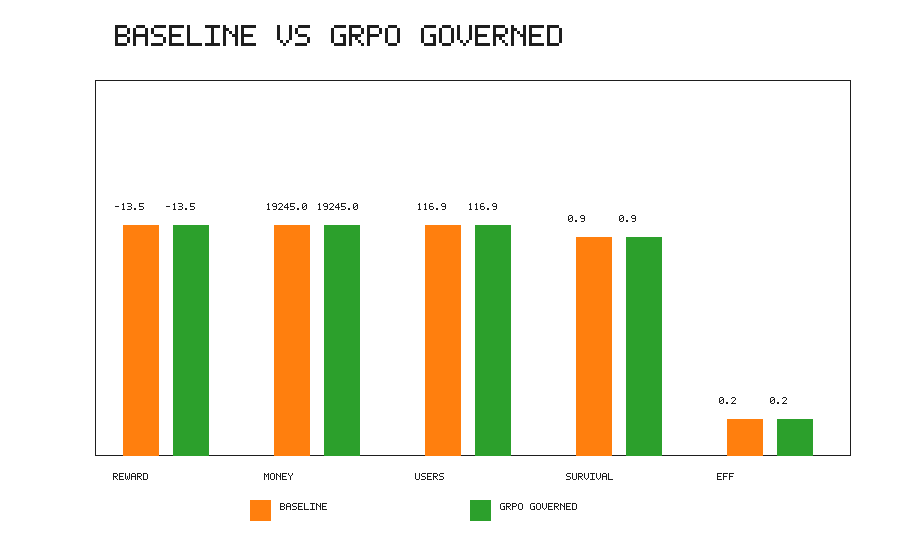
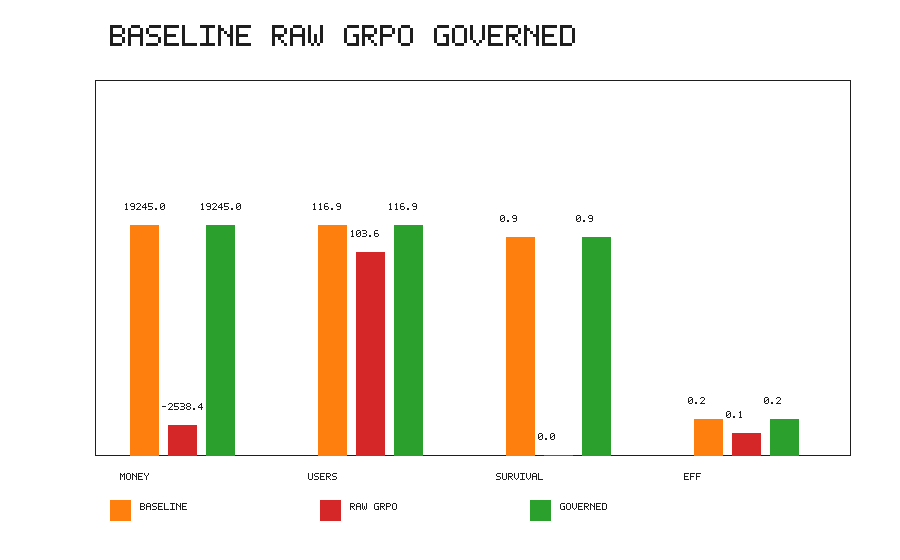
Frame raw GRPO as deployment ablation

diff --git a/scripts/make_submission_artifacts.py b/scripts/make_submission_artifacts.py
@@ -168,35 +168,40 @@ def plot_line(path, title, x_label, y_label, points, y_min=None, y_max=None):
 def plot_bars(path):
     img = make_canvas(900, 560)
     black = (30, 30, 30)
+    red = (214, 39, 40)
     green = (44, 160, 44)
     orange = (255, 127, 14)
     left, top, right, bottom = 95, 80, 850, 455
     metrics = [
-        ("REWARD", -13.52, -13.52),
-        ("MONEY", 19245.0, 19245.0),
-        ("USERS", 116.9, 116.9),
-        ("SURVIVAL", 0.95, 0.95),
-        ("EFF", 0.16, 0.16),
+        ("MONEY", 19245.0, -2538.4, 19245.0),
+        ("USERS", 116.9, 103.6, 116.9),
+        ("SURVIVAL", 0.95, 0.0, 0.95),
+        ("EFF", 0.16, 0.097, 0.16),
     ]
 
-    draw_text(img, 115, 25, "BASELINE VS GRPO GOVERNED", black, scale=3)
+    draw_text(img, 110, 25, "BASELINE RAW GRPO GOVERNED", black, scale=3)
     draw_rect(img, left, top, right, bottom, black)
     group_w = (right - left) // len(metrics)
-    for i, (name, base, governed) in enumerate(metrics):
-        x0 = left + i * group_w + 28
-        max_val = max(abs(base), abs(governed), 1)
+    for i, (name, base, raw_grpo, governed) in enumerate(metrics):
+        x0 = left + i * group_w + 35
+        max_val = max(abs(base), abs(raw_grpo), abs(governed), 1)
         base_h = int(abs(base) / max_val * 230)
+        raw_h = int(abs(raw_grpo) / max_val * 230)
         governed_h = int(abs(governed) / max_val * 230)
-        draw_rect(img, x0, bottom - base_h, x0 + 35, bottom, orange, fill=True)
-        draw_rect(img, x0 + 50, bottom - governed_h, x0 + 85, bottom, green, fill=True)
+        draw_rect(img, x0, bottom - base_h, x0 + 28, bottom, orange, fill=True)
+        draw_rect(img, x0 + 38, bottom - raw_h, x0 + 66, bottom, red, fill=True)
+        draw_rect(img, x0 + 76, bottom - governed_h, x0 + 104, bottom, green, fill=True)
         draw_text(img, x0 - 10, bottom + 18, name, black, scale=1)
-        draw_text(img, x0 - 8, bottom - base_h - 22, f"{base:.1f}", black, scale=1)
-        draw_text(img, x0 + 43, bottom - governed_h - 22, f"{governed:.1f}", black, scale=1)
+        draw_text(img, x0 - 6, bottom - base_h - 22, f"{base:.1f}", black, scale=1)
+        draw_text(img, x0 + 32, bottom - raw_h - 22, f"{raw_grpo:.1f}", black, scale=1)
+        draw_text(img, x0 + 70, bottom - governed_h - 22, f"{governed:.1f}", black, scale=1)
 
-    draw_rect(img, 250, 500, 270, 520, orange, fill=True)
-    draw_text(img, 280, 503, "BASELINE", black, scale=1)
-    draw_rect(img, 470, 500, 490, 520, green, fill=True)
-    draw_text(img, 500, 503, "GRPO GOVERNED", black, scale=1)
+    draw_rect(img, 110, 500, 130, 520, orange, fill=True)
+    draw_text(img, 140, 503, "BASELINE", black, scale=1)
+    draw_rect(img, 320, 500, 340, 520, red, fill=True)
+    draw_text(img, 350, 503, "RAW GRPO", black, scale=1)
+    draw_rect(img, 530, 500, 550, 520, green, fill=True)
+    draw_text(img, 560, 503, "GOVERNED", black, scale=1)
     save_png(path, img)
 
 
@@ -204,10 +209,11 @@ def plot_reward_curve(path):
     img = make_canvas(900, 560)
     black = (30, 30, 30)
     orange = (255, 127, 14)
+    red = (214, 39, 40)
     green = (44, 160, 44)
     grid = (215, 220, 225)
     left, top, right, bottom = 120, 80, 820, 460
-    values = [("BASELINE", -13.52, orange), ("GRPO GOV", -13.52, green)]
+    values = [("BASELINE", -13.52, orange), ("RAW GRPO", -5.243, red), ("GOVERNED", -13.52, green)]
     y_min, y_max = -16.0, 0.0
 
     draw_text(img, 165, 25, "AVERAGE EPISODE REWARD", black, scale=3)
@@ -218,7 +224,7 @@ def plot_reward_curve(path):
 
     zero_y = int(bottom - (0 - y_min) / (y_max - y_min) * (bottom - top))
     for i, (name, value, color) in enumerate(values):
-        x0 = left + 180 + i * 230
+        x0 = left + 110 + i * 190
         y = int(bottom - (value - y_min) / (y_max - y_min) * (bottom - top))
         draw_rect(img, x0, zero_y, x0 + 90, y, color, fill=True)
         draw_text(img, x0 - 12, bottom + 20, name, black, scale=1)
@@ -226,31 +232,34 @@ def plot_reward_curve(path):
 
     draw_text(img, 35, top - 5, "0", black, scale=1)
     draw_text(img, 25, bottom - 5, "-16", black, scale=1)
-    draw_text(img, 260, 510, "FINAL COLAB POLICY EVALUATION", black, scale=2)
+    draw_text(img, 240, 510, "RAW REWARD HIDES SURVIVAL RISK", black, scale=2)
     save_png(path, img)
 
 
 def plot_policy_summary(path):
     img = make_canvas(900, 560)
     black = (30, 30, 30)
+    red = (214, 39, 40)
     green = (44, 160, 44)
     orange = (255, 127, 14)
 
     draw_text(img, 125, 25, "CEO POLICY SAFETY SUMMARY", black, scale=3)
-    draw_text(img, 90, 110, "BASELINE CEO", orange, scale=2)
-    draw_text(img, 90, 150, "SURVIVAL 0.95", black, scale=2)
-    draw_text(img, 90, 185, "19 OF 20 REACH MAX DAYS", black, scale=2)
-    draw_text(img, 90, 220, "DETERMINISTIC POLICY", black, scale=2)
+    draw_text(img, 70, 110, "BASELINE CEO", orange, scale=2)
+    draw_text(img, 70, 150, "SURVIVAL 0.95", black, scale=2)
+    draw_text(img, 70, 185, "19 OF 20 MAX DAYS", black, scale=2)
 
-    draw_text(img, 510, 110, "GOVERNED GRPO CEO", green, scale=2)
-    draw_text(img, 510, 150, "SURVIVAL 0.95", black, scale=2)
-    draw_text(img, 510, 185, "19 OF 20 REACH MAX DAYS", black, scale=2)
-    draw_text(img, 510, 220, "TRAINED ADAPTER PLUS GOVERNOR", black, scale=2)
+    draw_text(img, 350, 110, "RAW GRPO", red, scale=2)
+    draw_text(img, 350, 150, "SURVIVAL 0.00", black, scale=2)
+    draw_text(img, 350, 185, "BANKRUPTCY LOOP", black, scale=2)
 
-    draw_text(img, 205, 325, "GOVERNED ARCHITECTURE", black, scale=2)
-    draw_text(img, 205, 365, "GRPO POLICY", black, scale=2)
-    draw_text(img, 205, 400, "PLUS ACTION MASK", black, scale=2)
-    draw_text(img, 205, 435, "PLUS SURVIVAL FALLBACK", black, scale=2)
+    draw_text(img, 620, 110, "GOVERNED", green, scale=2)
+    draw_text(img, 620, 150, "SURVIVAL 0.95", black, scale=2)
+    draw_text(img, 620, 185, "19 OF 20 MAX DAYS", black, scale=2)
+
+    draw_text(img, 105, 300, "LESSON", black, scale=2)
+    draw_text(img, 105, 340, "GRPO LEARNED VALID ACTIONS", black, scale=2)
+    draw_text(img, 105, 375, "RAW POLICY WAS NOT SAFE", black, scale=2)
+    draw_text(img, 105, 410, "GOVERNOR RECOVERED SURVIVAL", black, scale=2)
     save_png(path, img)
 
 

diff --git a/README.md b/README.md
@@ -64,12 +64,15 @@ Episodes terminate when the startup reaches the horizon, runs out of money, or h
 
 ## CEO Architecture
 
-MASS evaluates two CEO variants:
+MASS reports three CEO runs so the final architecture is easy to understand:
 
 1. **Baseline CEO**: a deterministic policy that balances runway, user growth, product quality, burn, and recent actions.
-2. **GRPO + Governed CEO**: a Qwen2.5-0.5B LoRA adapter trained with GRPO and wrapped in an environment-aware survival governor.
+2. **Raw GRPO CEO ablation**: the trained Qwen2.5-0.5B LoRA adapter evaluated without the survival governor.
+3. **GRPO + Governed CEO**: the same trained adapter wrapped in an environment-aware survival governor.
 
 The governed CEO is the final trained architecture. It uses the GRPO adapter only in safe operating states where the company has enough money, runway, users, product quality, and no active recovery signal. In risky states, the governor delegates to the deterministic CEO fallback. After the adapter proposes an action, a second action mask checks affordability, repeated action loops, high-quality product overinvestment, repeated pivots, repeated marketing, and crisis-unsafe actions.
+
+The raw GRPO run is included as an ablation, not as the final system. It shows why long-horizon LLM policies need environment-aware constraints: the adapter learned to emit valid proposal-aligned actions, but without a governor it still made unsafe repeated decisions.
 
 ## What The Agent Observes
 
@@ -165,33 +168,33 @@ python3 compare_policies.py --output-dir outputs/comparison
 
 ## What Improved After Training
 
-GRPO improved the CEO's verifier-facing behavior during training: valid action formatting and proposal alignment rose above 90%. The final evaluation compares the baseline CEO against the GRPO-trained CEO running behind an environment-aware survival governor.
+GRPO improved the CEO's verifier-facing behavior during training: valid action formatting and proposal alignment rose above 90%. The evaluation includes the raw GRPO CEO as an ablation, then compares the final governed CEO against the baseline.
 
 Current 20-episode evaluation summary:
 
-| Metric | Baseline CEO | GRPO + Governed CEO |
-| --- | ---: | ---: |
-| Average total reward | -13.520 | -13.520 |
-| Average final money | 19,244.960 | 19,244.960 |
-| Average final users | 116.900 | 116.900 |
-| Survival rate | 0.950 | 0.950 |
-| Decision efficiency | 0.160 | 0.160 |
-| Main failure mode | no_users in 1/20 | no_users in 1/20 |
+| Metric | Baseline CEO | Raw GRPO CEO ablation | GRPO + Governed CEO |
+| --- | ---: | ---: | ---: |
+| Average total reward | -13.520 | -5.243 | -13.520 |
+| Average final money | 19,244.960 | -2,538.432 | 19,244.960 |
+| Average final users | 116.900 | 103.550 | 116.900 |
+| Survival rate | 0.950 | 0.000 | 0.950 |
+| Decision efficiency | 0.160 | 0.097 | 0.160 |
+| Main failure mode | no_users in 1/20 | bankruptcy-heavy | no_users in 1/20 |
 
-The key result is architectural: the trained model is integrated as a constrained decision policy rather than an unconstrained controller. The governed CEO preserves the baseline survival rate while keeping a trained policy available for safe operating states.
+The key result is architectural: raw training improved local action behavior, but the unconstrained policy was not safe enough for long-horizon deployment. The governed CEO preserves the baseline survival rate while keeping a trained policy available for safe operating states. In other words, MASS does not just train a policy; it demonstrates the safety layer needed to deploy that policy in a delayed-consequence environment.
 
 Required plots are committed under `docs/assets/`:
 
 - training loss curve
 - training reward curve
-- baseline vs GRPO+governed comparison
+- baseline vs raw/governed comparison
 - policy comparison summary
 
 ![GRPO training reward](docs/assets/reward_curve.png)
 
 ![GRPO training loss](docs/assets/loss_curve.png)
 
-![Baseline vs GRPO governed metrics](docs/assets/reward_comparison.png)
+![Baseline vs raw/governed metrics](docs/assets/reward_comparison.png)
 
 ![CEO policy safety summary](docs/assets/policy_summary.png)
 
@@ -310,7 +313,7 @@ Generated training/evaluation outputs are written to `outputs/` and are intentio
 ## Known Limitations
 
 - The simulator is compact and designed for hackathon-scale training, not a full business benchmark.
-- The governed GRPO CEO currently matches the baseline survival result rather than clearly beating it. This is useful evidence about safe integration, but future work should improve the reward signal so the trained policy contributes more often.
+- The governed GRPO CEO is optimized for safe deployment rather than unconstrained reward maximization. Future work should improve the reward signal so the trained policy contributes more often while preserving survival.
 
 ## Next Improvements
 

diff --git a/docs/miniblog_draft.md b/docs/miniblog_draft.md
@@ -8,7 +8,7 @@ MASS is a multi-agent startup simulator built as an OpenEnv-compatible environme
 
 The goal is to train and evaluate an LLM CEO policy on long-horizon strategic tradeoffs: when to invest in product, when to market, when to hire, when to conserve cash, and when to pivot.
 
-For training, I use Hugging Face TRL GRPO with a small Qwen2.5-0.5B LoRA CEO policy. The final system compares the baseline CEO against a governed GRPO CEO that combines the trained adapter with environment-aware safety constraints.
+For training, I use Hugging Face TRL GRPO with a small Qwen2.5-0.5B LoRA CEO policy. The final report compares the baseline CEO, a raw GRPO ablation, and a governed GRPO CEO that combines the trained adapter with environment-aware safety constraints.
 
 ## Why A Startup Simulator?
 
@@ -117,20 +117,20 @@ python compare_policies.py --output-dir outputs/comparison
 
 ## What Improved?
 
-GRPO improved the CEO's verifier-facing behavior: the model learned to emit valid action-format decisions and align with co-founder proposals. The final architecture is a governed GRPO CEO: the trained adapter participates only in safe operating states, while cash, runway, users, product quality, and recovery-risk states are handled by the environment-aware survival governor.
+GRPO improved the CEO's verifier-facing behavior: the model learned to emit valid action-format decisions and align with co-founder proposals. I include the raw GRPO CEO as an ablation to show an important long-horizon failure mode: local action validity is not the same as safe deployment. The final architecture is a governed GRPO CEO: the trained adapter participates only in safe operating states, while cash, runway, users, product quality, and recovery-risk states are handled by the environment-aware survival governor.
 
 20-episode evaluation:
 
-| Metric | Baseline CEO | GRPO + Governed CEO |
-| --- | ---: | ---: |
-| Average total reward | -13.520 | -13.520 |
-| Average final money | 19,244.960 | 19,244.960 |
-| Average final users | 116.900 | 116.900 |
-| Survival rate | 0.950 | 0.950 |
-| Decision efficiency | 0.160 | 0.160 |
-| Main failure mode | no_users in 1/20 | no_users in 1/20 |
+| Metric | Baseline CEO | Raw GRPO CEO ablation | GRPO + Governed CEO |
+| --- | ---: | ---: | ---: |
+| Average total reward | -13.520 | -5.243 | -13.520 |
+| Average final money | 19,244.960 | -2,538.432 | 19,244.960 |
+| Average final users | 116.900 | 103.550 | 116.900 |
+| Survival rate | 0.950 | 0.000 | 0.950 |
+| Decision efficiency | 0.160 | 0.097 | 0.160 |
+| Main failure mode | no_users in 1/20 | bankruptcy-heavy | no_users in 1/20 |
 
-The important result is that MASS evaluates the trained policy as part of a realistic deployment stack: learned adapter, action masks, survival governor, and baseline fallback. The governed GRPO CEO preserves the baseline survival rate while making trained-policy participation possible in safe states.
+The important result is that MASS evaluates the trained policy as part of a realistic deployment stack: learned adapter, action masks, survival governor, and baseline fallback. Raw GRPO alone is not enough; the governed GRPO CEO recovers survival from 0.00 to 0.95 and matches the strong baseline while making trained-policy participation possible in safe states.
 
 ## Demo
 

diff --git a/README_SPACE.md b/README_SPACE.md
@@ -44,6 +44,6 @@ Valid CEO actions:
 
 ## Training
 
-The CEO policy is trained with Hugging Face TRL GRPO on Qwen2.5-0.5B. The final demo compares the baseline CEO with a GRPO-trained governed CEO that uses an environment-aware survival controller.
+The CEO policy is trained with Hugging Face TRL GRPO on Qwen2.5-0.5B. The final demo compares the baseline CEO, a raw GRPO ablation, and a GRPO-trained governed CEO that uses an environment-aware survival controller.
 
 Final plots are committed under `docs/assets/` and shown in the Training Result tab.
